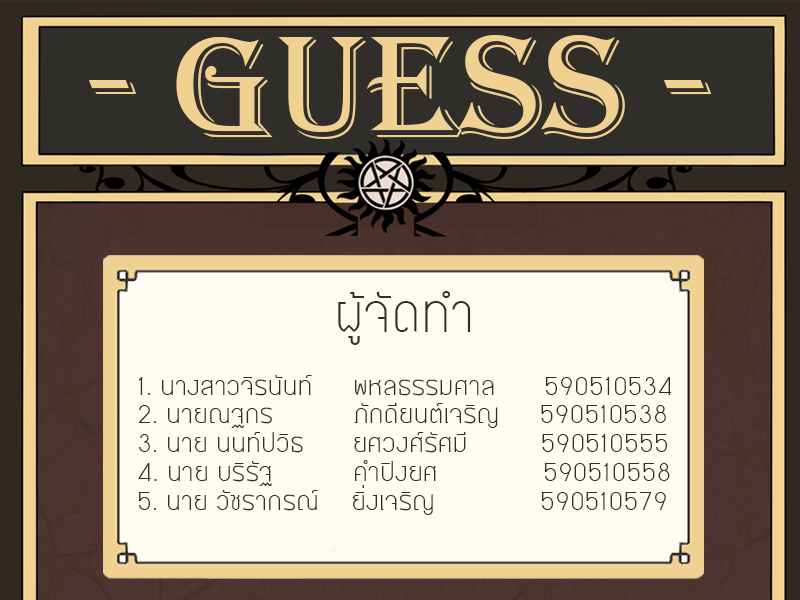
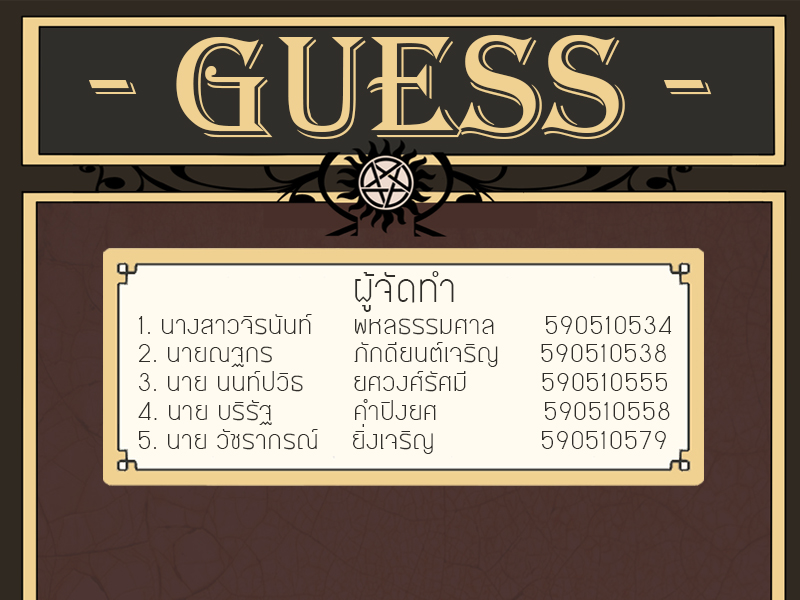
เพิ่มหน้าอ้างอิง

Changed region(s): [[0.125, 0.39, 0.9062, 0.99], [0.1562, 0.57, 0.1875, 0.6]]

diff --git a/Project.py b/Project.py
@@ -133,7 +133,7 @@ class Screen(threading.Thread):
         self.running = True
         self.back = False
         self.Provider = False
-        self.check_number = True
+        self.References = False
         self.number_input = ""
     # หน้าเริ่มโปรแกรม
     def run(self):
@@ -142,31 +142,58 @@ class Screen(threading.Thread):
         while self.running:
             for event in pygame.event.get():
                 if event.type == pygame.QUIT:
-                    pygame.quit()
-                    quit()
+                    self.quit_function()
             self.screen.blit(pygame.image.load(self.background[5]),(0,0))
+            self.button(100, 487, 246, 42, "References", pygame.image.load(self.icon_bottom[17]), pygame.image.load(self.icon_bottom[16]))
             self.button(470, 240, 246, 42, "Next", pygame.image.load(self.icon_bottom[3]), pygame.image.load(self.icon_bottom[2]))
             self.button(470, 340, 246, 42, "Provider", pygame.image.load(self.icon_bottom[15]), pygame.image.load(self.icon_bottom[14]))
             self.button(470, 440, 246, 42, "Quit", pygame.image.load(self.icon_bottom[7]), pygame.image.load(self.icon_bottom[6]))
             pygame.display.update()
         self.running = True
         if self.Provider:
-            self.Provider_seen()
-        else:
+            self.Provider_screen()
+        elif self.References:
+            self.References_screen()
+        elif self.Provider is False and self.References is False:
             self.how_to()
     # หน้ารายชื่อคนทำ
-    def Provider_seen(self):
+    def Provider_screen(self):
         while self.running:
             for event in pygame.event.get():
                 if event.type == pygame.QUIT:
-                    pygame.quit()
-                    quit()
+                    self.quit_function()
             self.screen.blit(pygame.image.load(self.background[7]),(0,0))
-            self.button(447, 485, 246, 42, "Back", pygame.image.load(self.icon_bottom[1]),  pygame.image.load(self.icon_bottom[0]))
+            self.button(273, 485, 246, 42, "Back", pygame.image.load(self.icon_bottom[1]),  pygame.image.load(self.icon_bottom[0]))
             pygame.display.update()
+        self.running = True
+        self.run()
+    # หน้าอ้างอิง 1
+    def References_screen(self):
+        while self.running:
+            for event in pygame.event.get():
+                if event.type == pygame.QUIT:
+                    self.quit_function()
+            self.screen.blit(pygame.image.load(self.background[8]),(0,0))
+            self.button(447, 485, 246, 42, "Next", pygame.image.load(self.icon_bottom[3]), pygame.image.load(self.icon_bottom[2]))
+            self.button(100, 485, 246, 42, "Back", pygame.image.load(self.icon_bottom[1]),  pygame.image.load(self.icon_bottom[0]))
+            pygame.display.update()         
         self.running = True
         if self.back:
             self.run()
+        else:
+            self.References_screen_2()
+    # หน้าอ้างอิง 2
+    def References_screen_2(self):
+        while self.running:
+            for event in pygame.event.get():
+                if event.type == pygame.QUIT:
+                    self.quit_function()
+            self.screen.blit(pygame.image.load(self.background[9]),(0,0))
+            self.button(100, 485, 246, 42, "Back", pygame.image.load(self.icon_bottom[1]),  pygame.image.load(self.icon_bottom[0]))
+            self.button(447, 485, 246, 42, "MainManu", pygame.image.load(self.icon_bottom[13]), pygame.image.load(self.icon_bottom[12]))
+            pygame.display.update()
+        self.running = True
+        self.References_screen()        
     # หน้า How to play
     def how_to(self):
         pygame.mixer.music.load("Song\Day_Of_Recon.mp3")
@@ -174,8 +201,7 @@ class Screen(threading.Thread):
         while self.running:
             for event in pygame.event.get():
                 if event.type == pygame.QUIT:
-                    pygame.quit()
-                    quit()                     
+                    self.quit_function()                    
             self.screen.blit(pygame.image.load(self.background[0]),(0,0))#x = 246 y = 42 
             self.button(100, 485, 246, 42, "Next", pygame.image.load(self.icon_bottom[3]), pygame.image.load(self.icon_bottom[2]))
             self.button(447, 485, 246, 42, "Back", pygame.image.load(self.icon_bottom[1]),  pygame.image.load(self.icon_bottom[0]))
@@ -193,8 +219,7 @@ class Screen(threading.Thread):
         while self.running:
             for event in pygame.event.get():
                 if event.type == pygame.QUIT:
-                    pygame.quit()
-                    quit()
+                    self.quit_function()
                 if event.type == pygame.KEYDOWN:
                     if event.key == pygame.K_BACKSPACE:
                         self.number_input = self.number_input[:-1]
@@ -232,8 +257,7 @@ class Screen(threading.Thread):
         while self.running:
             for event in pygame.event.get():
                 if event.type == pygame.QUIT:
-                    pygame.quit()
-                    quit()   
+                    self.quit_function()   
             self.screen.blit(pygame.image.load(self.background[2]),(0,0))
             if self.i < guess.box:
                 self.height = 2500
@@ -270,8 +294,7 @@ class Screen(threading.Thread):
         while True:
             for event in pygame.event.get():
                 if event.type == pygame.QUIT:
-                    pygame.quit()
-                    quit()
+                    self.quit_function()
             witch.set_alpha(i)
             self.screen.blit(witch, pic)
             if i != 350 :
@@ -292,14 +315,13 @@ class Screen(threading.Thread):
             while self.running:
                 for event in pygame.event.get():
                     if event.type == pygame.QUIT:
-                        pygame.quit()
-                        quit()
+                        self.quit_function()
                 fade.set_alpha(i)
                 self.screen.blit(pygame.image.load(self.background[4]),(0,0))
                 out_put = (220 - self.font.size(text)[0]) // 2
                 self.screen.blit(fade, (out_put + 290,236))
                 clock = pygame.time.wait(30)
-                self.button(100, 490, 246, 42, "NewGame", pygame.image.load(self.icon_bottom[13]), pygame.image.load(self.icon_bottom[12]))
+                self.button(100, 490, 246, 42, "NewGame", pygame.image.load(self.icon_bottom[19]), pygame.image.load(self.icon_bottom[18]))
                 self.button(447, 490, 246, 42, "Quit", pygame.image.load(self.icon_bottom[7]), pygame.image.load(self.icon_bottom[6]))
                 if i != 380:
                     i += 10 # ความเร็วตอนเฟด
@@ -309,13 +331,16 @@ class Screen(threading.Thread):
             while self.running:
                 for event in pygame.event.get():
                     if event.type == pygame.QUIT:
-                        pygame.quit()
-                        quit()
+                        self.quit_function()
                 self.screen.blit(pygame.image.load(self.background[6]),(0,0))
-                self.button(100, 490, 246, 42, "NewGame", pygame.image.load(self.icon_bottom[13]), pygame.image.load(self.icon_bottom[12]))
+                self.button(100, 490, 246, 42, "NewGame", pygame.image.load(self.icon_bottom[19]), pygame.image.load(self.icon_bottom[18]))
                 self.button(447, 490, 246, 42, "Quit", pygame.image.load(self.icon_bottom[7]), pygame.image.load(self.icon_bottom[6]))
                 pygame.display.update()
-            
+    # ฟังก์ชันหยุด
+    def quit_function(self):
+        pygame.mixer.music.pause()
+        pygame.quit()
+        quit()            
     # ตัวหนังสือ
     def text_screen(self, text, width, height, color):
         self.font = pygame.font.Font("CHILLER.TTF", 90)
@@ -339,10 +364,16 @@ class Screen(threading.Thread):
                     self.running = False
                     self.back = False
                     clock = pygame.time.wait(150)
+                elif action == "References":
+                    self.running = False
+                    self.References = True
+                    clock = pygame.time.wait(150)
                 elif action == "Back":
                     self.running = False
                     self.back = True
                     self.Provider = False
+                    self.Provider = False
+                    self.References = False
                     clock = pygame.time.wait(150)
                 elif action == "No":
                     self.no += 1
@@ -362,16 +393,22 @@ class Screen(threading.Thread):
                     self.running = True
                     self.back = False
                     self.Provider = False
-                    self.check_number = True
+                    self.References = False
                     self.number_input = ""
                     self.put_number_screen()
                 elif action == "Provider":
                     self.running = False
                     self.Provider = True
                     clock = pygame.time.wait(150)
+                elif action == "MainManu":
+                    self.running = True
+                    self.back = False
+                    self.Provider = False
+                    self.References = False
+                    self.run()
+                    clock = pygame.time.wait(150)
                 elif action == "Quit":
-                    pygame.quit()
-                    quit()
+                    self.quit_function()
         else:
             self.screen.blit(b_new_button, (width,height))
 
